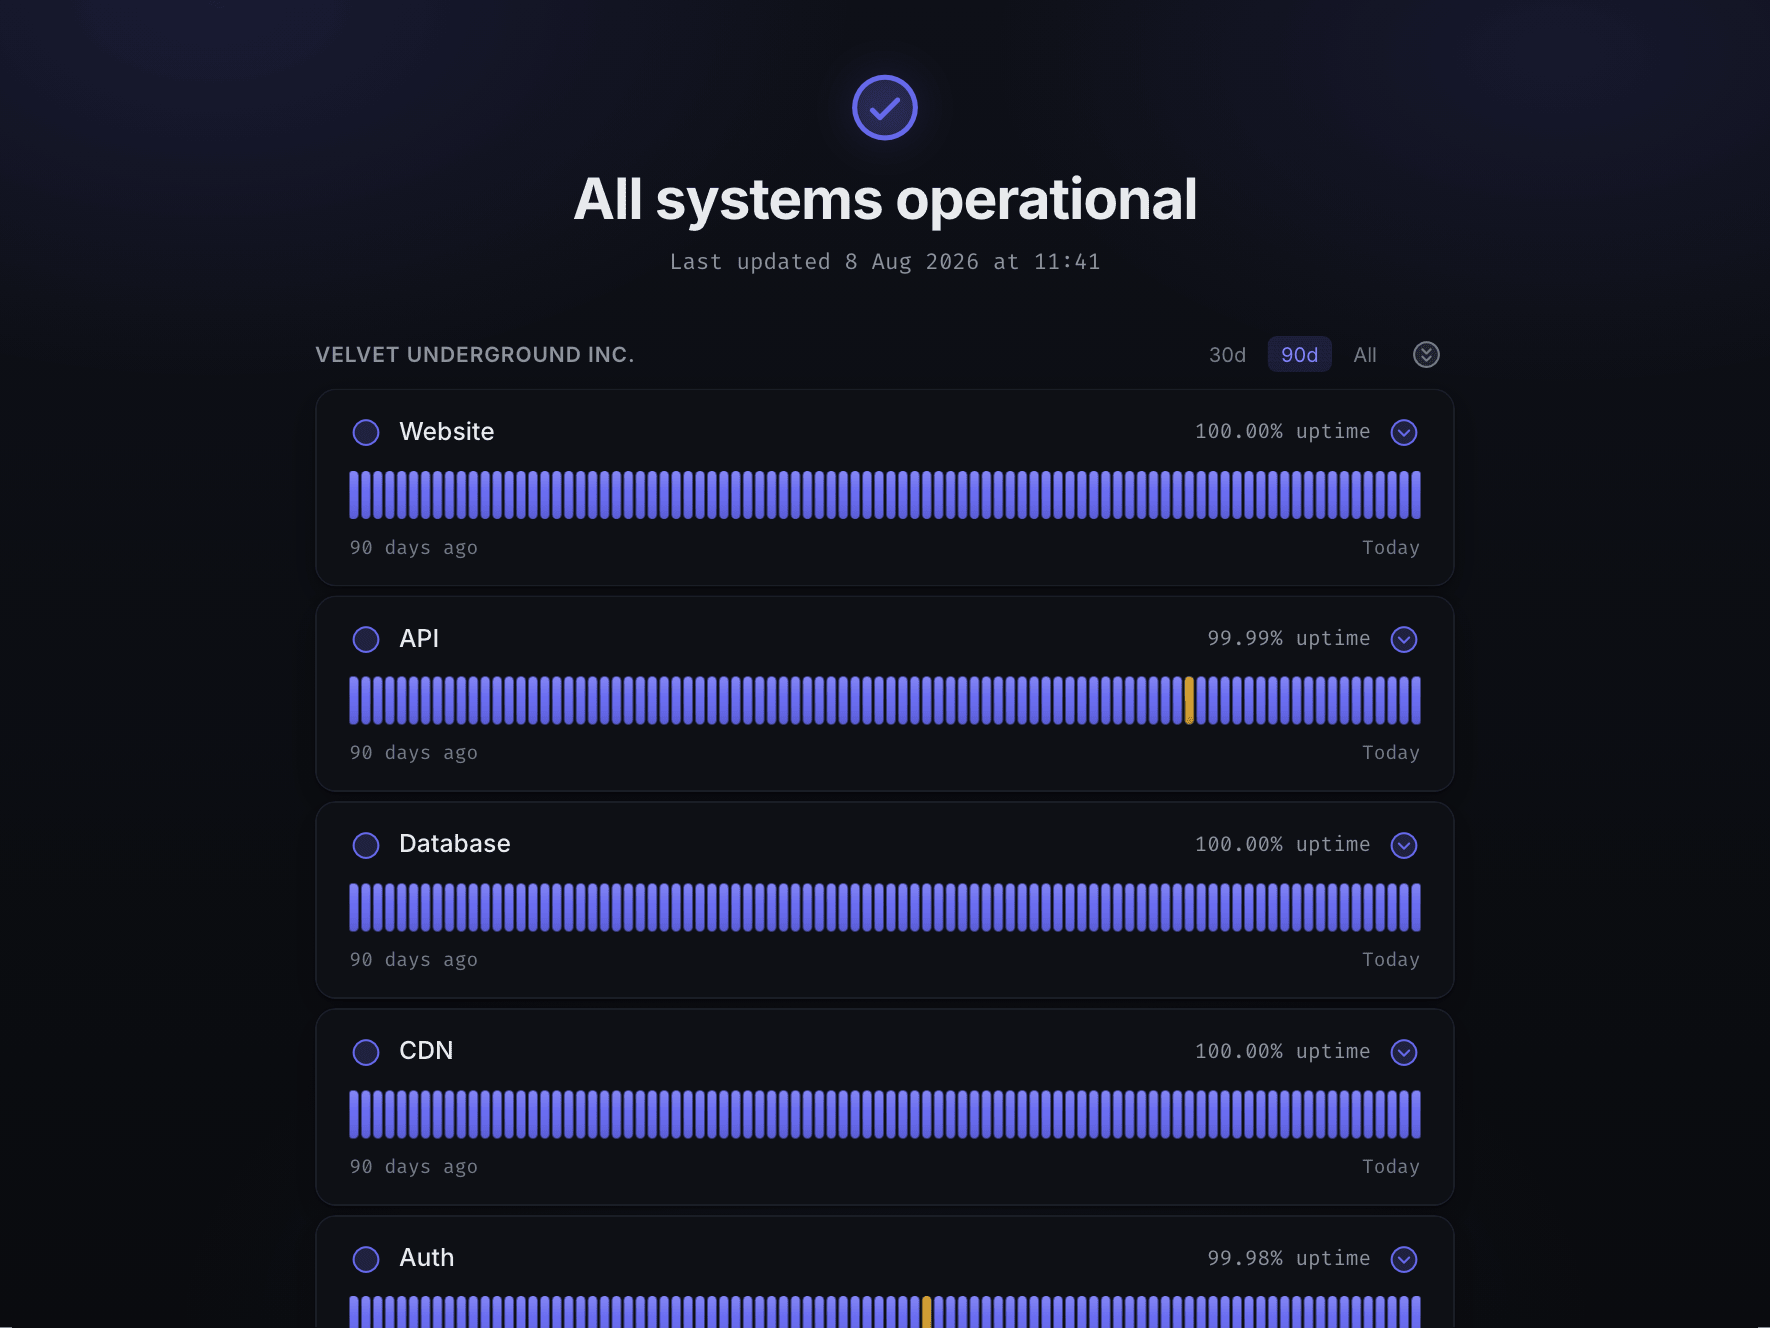
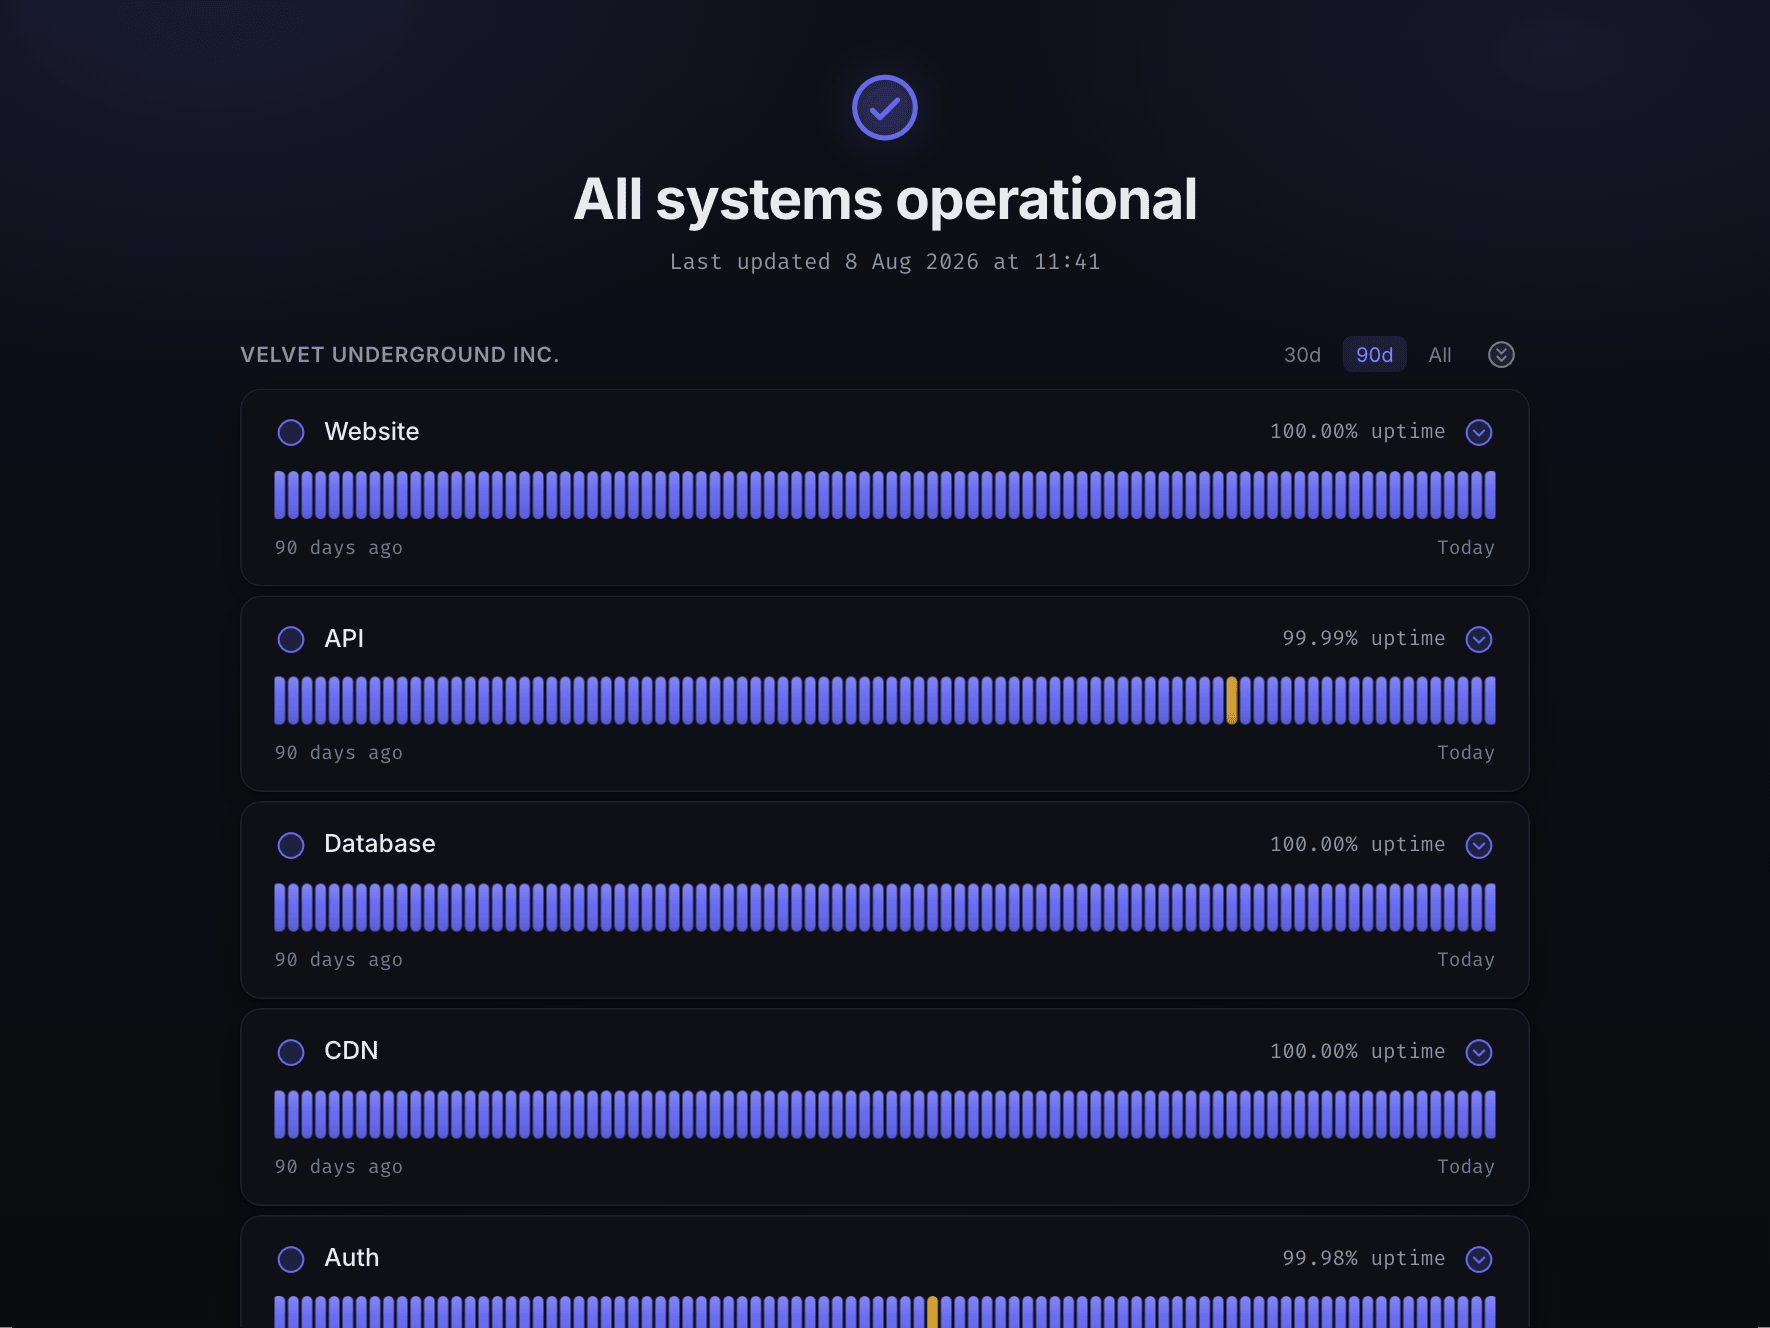
Chore: Cut 1.0.0 again, from what is here now (#587)
- Rewrite the 1.0.0 entry for what the version actually contains. It named the
  configuration key `design`, which has been `theme` since before the last cut,
  and it described none of the configurator
- Fix the screenshot run, which handed the build plugin a field named `design`
  whilst the plugin reads `theme`. It is the only untyped script under
  site/scripts and sits in no gate, so the rename reached everything that is
  checked and this one thing that is not. Filed as #586
- Regenerate the screenshot, which was rendered before Velvet's stylesheet was
  rebuilt around its palettes
- Draw the cards' shadow from one number rather than six. Both layers follow
  from how far it reaches, and it reaches a quarter less far: measured on the
  page, 6px 7.5px 15px and 15px 18px 42px against 8/10/20 and 20/24/56

diff --git a/apps/setup-service/src/velvet-release.generated.ts b/apps/setup-service/src/velvet-release.generated.ts
@@ -1,5 +1,5 @@
 // Generated by scripts/build-release.ts. Do not edit by hand.
-// Velvet 1.0.0 from phranck/velvet@b9c12ae4059e7367ae6819fe8f1e5b18b4a5c0b3.
+// Velvet 1.0.0 from phranck/velvet@f127bb9bdbee4566eeca26bdbfc7827fd27210cc.
 
 export const VELVET_RELEASE = {
   "manifest": {
@@ -9,7 +9,7 @@ export const VELVET_RELEASE = {
     "automaticInstallEligible": false,
     "template": {
       "repository": "phranck/velvet",
-      "commit": "b9c12ae4059e7367ae6819fe8f1e5b18b4a5c0b3"
+      "commit": "f127bb9bdbee4566eeca26bdbfc7827fd27210cc"
     },
     "compatibility": {
       "minimumInstalledVersion": "1.0.0",
@@ -78,7 +78,7 @@ export const VELVET_RELEASE = {
         "generator": "version-lock-v1"
       }
     ],
-    "releaseNotes": "# Velvet 1.0.0\n\n## What this update changes\n\nYour page is published in one of four themes, chosen during the setup or named as `theme` in your configuration. Each theme brings its own appearance and its own typefaces with it, so a published page asks nobody else for a font, and each says for itself what can be set on it.\n\nReading the response times follows the pointer without lagging behind it, and a page starts in the colours it ends in rather than repainting once the browser has read its configuration. A service name too long for the line it stands on is shown cut rather than broken off mid-letter.\n\n## What stays yours\n\n`velvet.yml`, the complete `velvet-data` branch, your incidents, maintenance records, repository secrets, Pages and domain settings, `README.md`, and `LICENSE` are never touched by an update. Velvet only replaces the workflow and issue-template files it owns, plus its own version lock.\n"
+    "releaseNotes": "# Velvet 1.0.0\n\n## What this update changes\n\nYour page is published in one of four themes, chosen during the setup or named as `theme` in your configuration. Each theme brings its own appearance and its own typefaces with it, so a published page asks nobody else for a font, and each says for itself what can be set on it.\n\nThere is a configurator at `setup.velvet.li/config`. It shows your page beside the settings, live, at full size. Everything you set stays in your browser until you press Publish, which writes it into your own `velvet.yml` as a single commit and leaves the rest of that file exactly as you wrote it.\n\nReading the response times follows the pointer without lagging behind it, and a page starts in the colours it ends in rather than repainting once the browser has read its configuration. A service name too long for the line it stands on is shown cut rather than broken off mid-letter.\n\n## What stays yours\n\n`velvet.yml`, the complete `velvet-data` branch, your incidents, maintenance records, repository secrets, Pages and domain settings, `README.md`, and `LICENSE` are never touched by an update. Velvet only replaces the workflow and issue-template files it owns, plus its own version lock.\n"
   },
   "sources": {
     ".github/ISSUE_TEMPLATE/config.yml": "blank_issues_enabled: false\ncontact_links:\n  - name: Velvet support\n    url: https://github.com/phranck/velvet/issues\n    about: Report problems with the monitor or status page.\n",

diff --git a/site/src/components/squircle-card/SquircleCardRoot.svelte b/site/src/components/squircle-card/SquircleCardRoot.svelte
@@ -117,13 +117,21 @@
 
       A filter rather than a box shadow, because a box shadow traces the
       rectangle the shape is cut from rather than the shape.
+
+      Both layers follow from how far the shadow reaches, which is stated once.
+      Six numbers kept in step by hand would drift the first time one of them
+      moved, and the two layers only read as one shadow whilst they agree about
+      where the light stands.
     */
+    --shadow-reach: 0.375rem;
     filter: drop-shadow(
-        0.5rem 0.625rem 1.25rem
+        var(--shadow-reach) calc(var(--shadow-reach) * 1.25)
+          calc(var(--shadow-reach) * 2.5)
           rgb(0 0 0 / var(--squircle-card-shadow-strength, 0.45))
       )
       drop-shadow(
-        1.25rem 1.5rem 3.5rem
+        calc(var(--shadow-reach) * 2.5) calc(var(--shadow-reach) * 3)
+          calc(var(--shadow-reach) * 7)
           rgb(0 0 0 / calc(var(--squircle-card-shadow-strength, 0.45) * 1.1))
       );
   }

diff --git a/CHANGELOG.md b/CHANGELOG.md
@@ -1,6 +1,6 @@
 # Changelog
 
-## Version 1.0.0 (2026-08-15)
+## Version 1.0.0 (2026-08-20)
 
 Velvet watches your websites and tells the people who rely on them whether everything is working.
 
@@ -14,13 +14,23 @@ Setting it up takes five steps in a browser and no file edited by hand, and the 
 
 ### How your page looks
 
-Your page is published in one of four designs. You choose it during the setup, where each is shown with its name, the period it comes from, and a picture of a page published in it, or by naming it as `design` in your configuration. A design brings its own appearance and its own typefaces with it, so a published page asks nobody else for a font.
+Your page is published in one of four themes. You choose it during the setup, where each is shown with its name, the period it comes from, and a picture of a page published in it, or by naming it as `theme` in your configuration. A theme brings its own appearance and its own typefaces with it, so a published page asks nobody else for a font.
 
 Retro Chassis is built as the machine it emulates. Its readout is a real dot-matrix panel: one character size, brightness as the only difference between what it says and what it says it about, and a grid of separate five-by-nine cells with every character standing on exactly one of them. The panel takes whole cells and nothing beyond them, with the same margin of metal on all four sides, and it stands off the walnut cheek beside it by what the key stands off the other one.
 
 The days of a service are sunk into the faceplate rather than sitting on it, the day under the pointer lights up instead of standing up, and a day nothing was measured on is the plate barely lifted. The service name is cut in brass that stays brass at every point of its depth, and the key that opens a row is one brass lit three ways rather than three sets of colours. The screws that close a faceplate stand in the middle of their plate with their sockets concentric to their heads. The sun above the services is symmetric, its five colours are the ones the readings below are drawn in, and the page's name is lettered across its middle band.
 
-A design can say how its strip is read and what the day under the pointer does. A name too long for the line it stands on is shown cut rather than broken off mid-letter.
+A theme can say how its strip is read and what the day under the pointer does. A name too long for the line it stands on is shown cut rather than broken off mid-letter.
+
+### Changing how it looks, without editing a file
+
+Velvet has a configurator at `setup.velvet.li/config`. You sign in with the same account you set your page up with, choose which of your installations to work on, and see that page beside the settings, live, at full size.
+
+You pick a theme from its picture rather than from a list of names, and underneath it stand the settings that theme offers. Each theme says for itself what can be set on it, so what you see is what that one can do and nothing else. Velvet offers thirteen settings, among them the colours of the day bars, the two protocol colours, the wash under the response curve, the width of the page, the backdrop with its clouds, and a choice of three palettes. Every change shows in the page beside you at once.
+
+Everything you set stays in your browser until you press Publish. It survives a reload, and it is kept per theme, so trying another one and coming back finds your settings where you left them.
+
+Publishing writes the theme and its settings into your own `velvet.yml` as a single commit, and your page rebuilds itself a minute or so later. Everything else in that file is left exactly as you wrote it, comments included. If the file has a shape Velvet cannot change without rewriting the rest of it, nothing is written and it says so.
 
 ### How your page behaves
 
@@ -30,4 +40,4 @@ A page starts in the colours it ends in, so one built before its first check has
 
 ### What is credited
 
-The typeface notices copied into every installation credit every face a design carries, and credit none that no design carries.
+The typeface notices copied into every installation credit every face a theme carries, and credit none that no theme carries.

diff --git a/apps/setup-service/scripts/release-notes.md b/apps/setup-service/scripts/release-notes.md
@@ -4,6 +4,8 @@
 
 Your page is published in one of four themes, chosen during the setup or named as `theme` in your configuration. Each theme brings its own appearance and its own typefaces with it, so a published page asks nobody else for a font, and each says for itself what can be set on it.
 
+There is a configurator at `setup.velvet.li/config`. It shows your page beside the settings, live, at full size. Everything you set stays in your browser until you press Publish, which writes it into your own `velvet.yml` as a single commit and leaves the rest of that file exactly as you wrote it.
+
 Reading the response times follows the pointer without lagging behind it, and a page starts in the colours it ends in rather than repainting once the browser has read its configuration. A service name too long for the line it stands on is shown cut rather than broken off mid-letter.
 
 ## What stays yours
